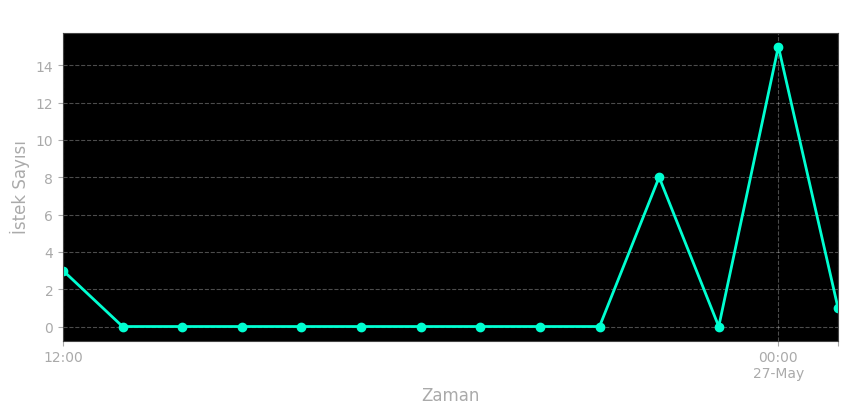
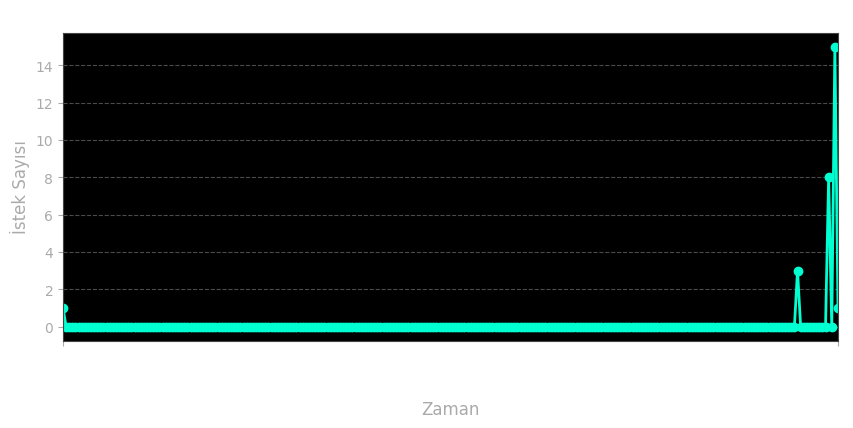
Güncelleme 27.05 09:41

diff --git a/templates/index.html b/templates/index.html
@@ -23,6 +23,45 @@
             background-color: #2e2e2e;
             color: white;
         }
+
+        .custom-select{
+            position: relative;
+            display: inline-block;
+            width: fit-content;
+        }
+
+        .custom-select select {
+            background-color:#2e2e2e;   
+            color: white;                
+            border: 1px solid #4a4a4a;
+            border-radius: 4px;       
+            padding: 0.5rem 2rem 0.5rem 0.75rem;
+            font-size: 0.875rem;         
+            appearance: none;
+            cursor: pointer;
+            background-image: none !important;
+        }
+
+        .custom-select::after {
+            content: "▼";
+            position: absolute;
+            right: 1rem;
+            top: 50%;
+            transform: translateY(-50%);
+            pointer-events: none;
+            color: white;
+            font-size: 0.75rem;
+            z-index: 1;
+        }    
+
+        .custom-select select:focus {
+            outline: none;
+            border: 1px solid #4a4a4a;
+            box-shadow: 0 0 4px rgba(255,255,255,0.2);
+        }
+
+
+
     </style>
 </head>
 <body>
@@ -38,10 +77,10 @@
         </form>
 
         <form method="get" action="/">
-            <div class="field">
-                <label class="label has-text-white">Honeypot Türü</label>
+            <div class="field" style="display: flex; flex-direction: column; align-items: center;">
+                <label class="label has-text-white" style="margin-bottom: 0.5rem;">Honeypot Türü</label>
                 <div class="control">
-                    <div class="select is-dark">
+                    <div class="select custom-select">
                         <select name="type" onchange="this.form.submit()">
                             <option value="http" {% if selected == 'http' %}selected{% endif %}>HTTP</option>
                             <option value="html" {% if selected == 'html' %}selected{% endif %}>HTML</option>
@@ -50,6 +89,26 @@
                     </div>
                 </div>
             </div>
+
+            <div class="field">
+                <label class="label has-text-white">Gün Seç</label>
+                <div class="control">
+                    <div class="select is-dark">
+                        <select name="days">
+                            <option value="1" {% if days == '1' %}selected{% endif %}>Son 1 Gün</option>
+                            <option value="3" {% if days == '3' %}selected{% endif %}>Son 3 Gün</option>
+                            <option value="7" {% if days == '7' or not days %}selected{% endif %}>Son 7 Gün</option>
+                            <option value="10" {% if days == '10' %}selected{% endif %}>Son 10 Gün</option>
+                            <option value="30" {% if days == '30' %}selected{% endif %}>Son 30 Gün</option>
+                        </select>
+                    </div>
+                </div>
+            </div>
+
+  <div class="field" style="margin-top: 2rem;">
+    <button type="submit" class="button is-link">Filtrele</button>
+  </div>
+
         </form>
 
         <div class="box">

diff --git a/app.py b/app.py
@@ -292,13 +292,17 @@ def plot_graphs(df, graph_type):
 @app.route('/', methods=["GET"])
 def index():
     graph_type = request.args.get("type", "http").lower()
-    df = load_data(graph_type)
+    days = int(request.args.get("days",7))
+
+    df = load_data(graph_type, days)
     time_graph, ip_graph, request_graph = plot_graphs(df, graph_type)
+
     return render_template('index.html',
                          time_graph=time_graph,
                          ip_graph=ip_graph,
                          request_graph=request_graph,
-                         selected=graph_type)
+                         selected=graph_type,
+                         days=str(days))
 
 @app.route('/refresh')
 def refresh():
